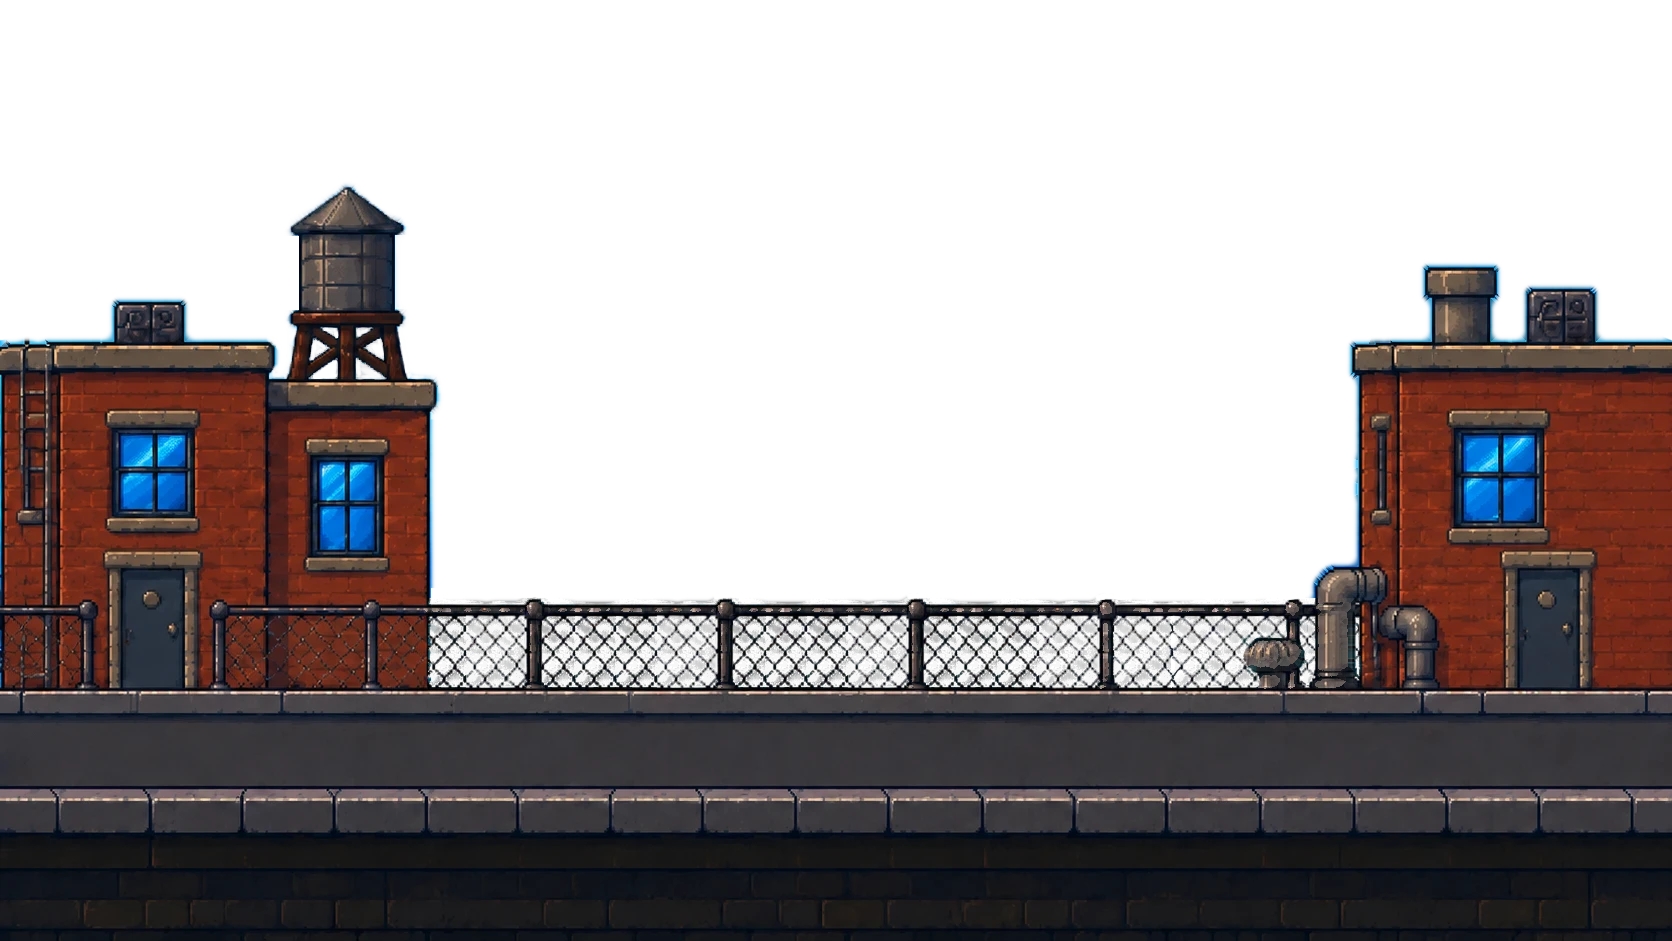
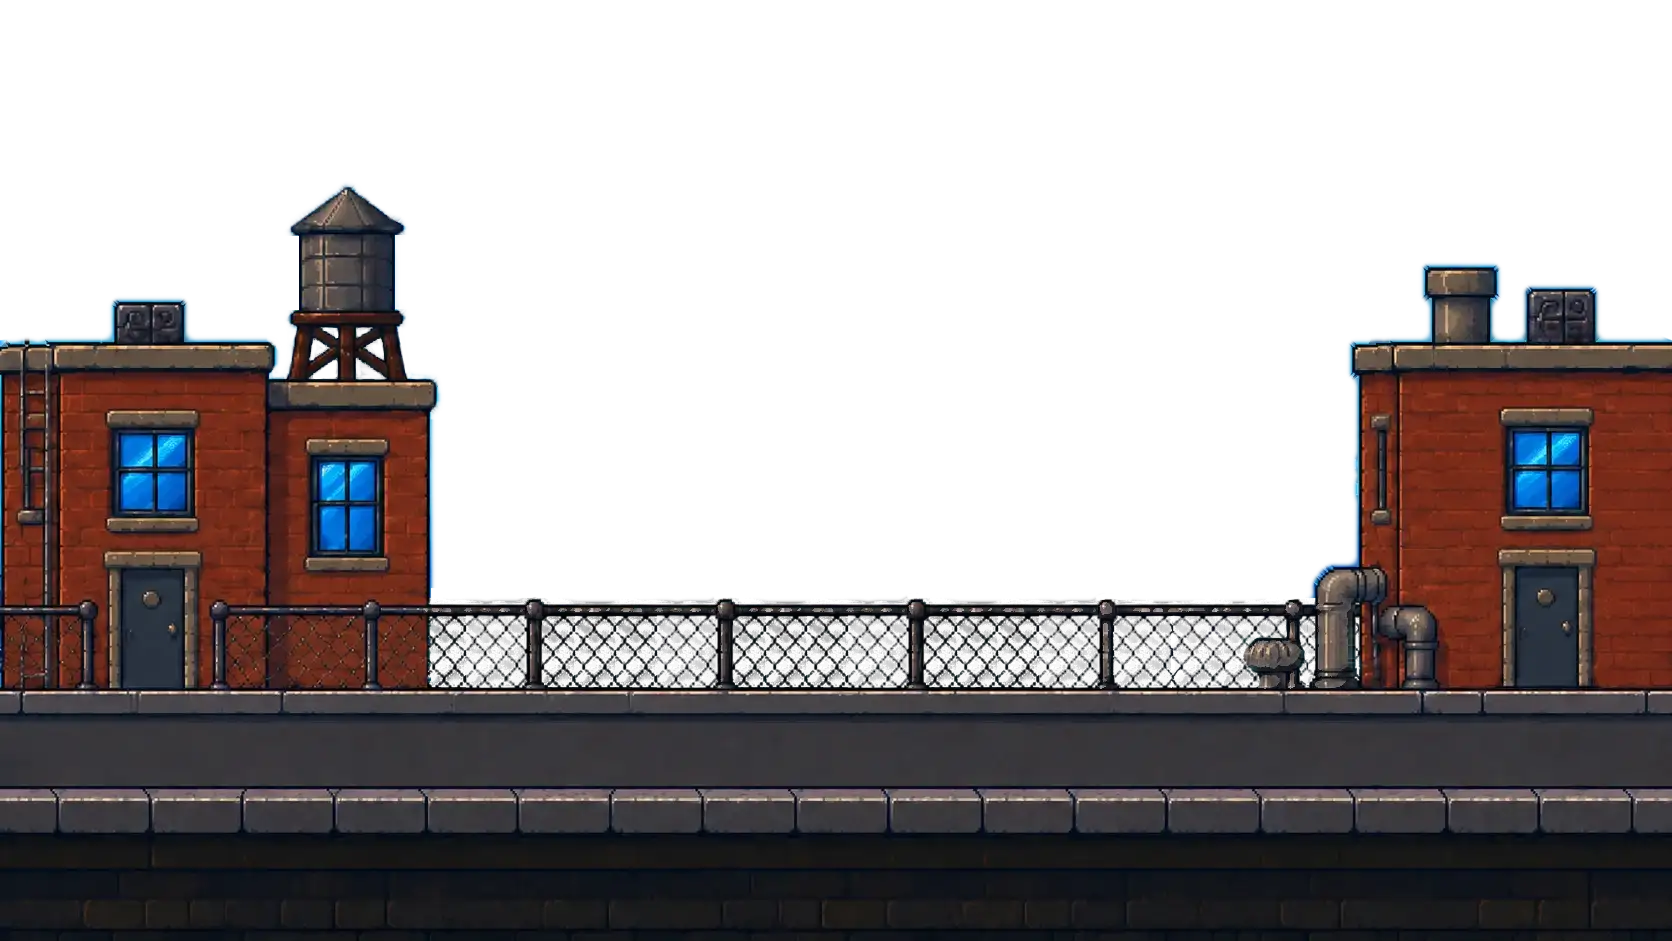
Remove unused public assets (v0.27.2)
- Drop public/shades.svg (the white-slime sunglasses overlay was
  disabled long ago via `if(false && ...)` — the JS reference is
  dead code, the file was just dead weight).
- Drop public/"City Foreground.webp" (not referenced anywhere).

Changed region(s): [[0.8397, 0.4315, 0.9641, 0.7396]]

diff --git a/index.html b/index.html
@@ -1009,7 +1009,7 @@
   <audio id="bgmusic" loop preload="none" src="BGM-1.mp3"></audio>
 
   <footer id="version">
-    <span id="version-text">Slime Volleyball 2<span class="footer-sep" aria-hidden="true"></span>v0.27.1</span>
+    <span id="version-text">Slime Volleyball 2<span class="footer-sep" aria-hidden="true"></span>v0.27.2</span>
     <span id="footer-social">
       <a id="discord-link" class="footer-icon" href="https://discord.gg/CSupRtePS" target="_blank" rel="noopener" aria-label="Join our Discord">
       <svg viewBox="0 0 24 24" role="img" aria-hidden="true"><path d="M20.317 4.3698a19.7913 19.7913 0 00-4.8851-1.5152.0741.0741 0 00-.0785.0371c-.211.3753-.4447.8648-.6083 1.2495-1.8447-.2762-3.68-.2762-5.4868 0-.1636-.3933-.4058-.8742-.6177-1.2495a.077.077 0 00-.0785-.037 19.7363 19.7363 0 00-4.8852 1.515.0699.0699 0 00-.0321.0277C.5334 9.0458-.319 13.5799.0992 18.0578a.0824.0824 0 00.0312.0561c2.0528 1.5076 4.0413 2.4228 5.9929 3.0294a.0777.0777 0 00.0842-.0276c.4616-.6304.8731-1.2952 1.226-1.9942a.076.076 0 00-.0416-.1057c-.6528-.2476-1.2743-.5495-1.8722-.8923a.077.077 0 01-.0076-.1277c.1258-.0943.2517-.1923.3718-.2914a.0743.0743 0 01.0776-.0105c3.9278 1.7933 8.18 1.7933 12.0614 0a.0739.0739 0 01.0785.0095c.1202.099.246.1981.3728.2924a.077.077 0 01-.0066.1276 12.2986 12.2986 0 01-1.873.8914.0766.0766 0 00-.0407.1067c.3604.698.7719 1.3628 1.225 1.9932a.076.076 0 00.0842.0286c1.961-.6067 3.9495-1.5219 6.0023-3.0294a.077.077 0 00.0313-.0552c.5004-5.177-.8382-9.6739-3.5485-13.6604a.061.061 0 00-.0312-.0286zM8.02 15.3312c-1.1825 0-2.1569-1.0857-2.1569-2.419 0-1.3332.9555-2.4189 2.157-2.4189 1.2108 0 2.1757 1.0952 2.1568 2.419 0 1.3332-.9555 2.4189-2.1569 2.4189zm7.9748 0c-1.1825 0-2.1569-1.0857-2.1569-2.419 0-1.3332.9554-2.4189 2.1569-2.4189 1.2108 0 2.1757 1.0952 2.1568 2.419 0 1.3332-.946 2.4189-2.1568 2.4189Z"/></svg>